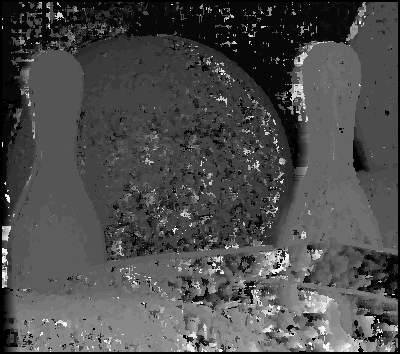
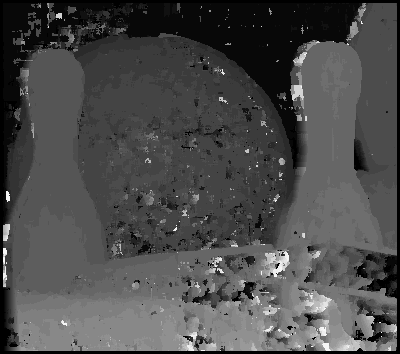
fixes

diff --git a/Stereo  Vision/Block_matching_SSD.py b/Stereo  Vision/Block_matching_SSD.py
@@ -15,6 +15,8 @@ def stereo_match(left_img, right_img, kernel, max_offset,output_file):
     depth.shape = h, w
 
     kernel_half = int(kernel / 2)
+    if kernel%2:
+        kernel_half+=1
     offset_adjust = 255 / max_offset  # this is used to map depth map output to 0-255 range
 
     for y in range(kernel_half, h - kernel_half):
@@ -55,5 +57,5 @@ def stereo_match(left_img, right_img, kernel, max_offset,output_file):
 
 
 if __name__ == '__main__':
-    for i in (1,5,9):
+     for i in (1,2,5,9):
         stereo_match("pictures/view0.png", "pictures/view1.png", i, 30, 'BM_SSD/w='+ str(i)+".png")

diff --git a/Stereo  Vision/Block_matching_SAD.py b/Stereo  Vision/Block_matching_SAD.py
@@ -15,6 +15,8 @@ def stereo_match(left_img, right_img, kernel, max_offset,output_file):
     depth.shape = h, w
 
     kernel_half = int(kernel / 2)
+    if kernel % 2:
+        kernel_half += 1
     offset_adjust = 255 / max_offset  # this is used to map depth map output to 0-255 range
 
     for y in range(kernel_half, h - kernel_half):
